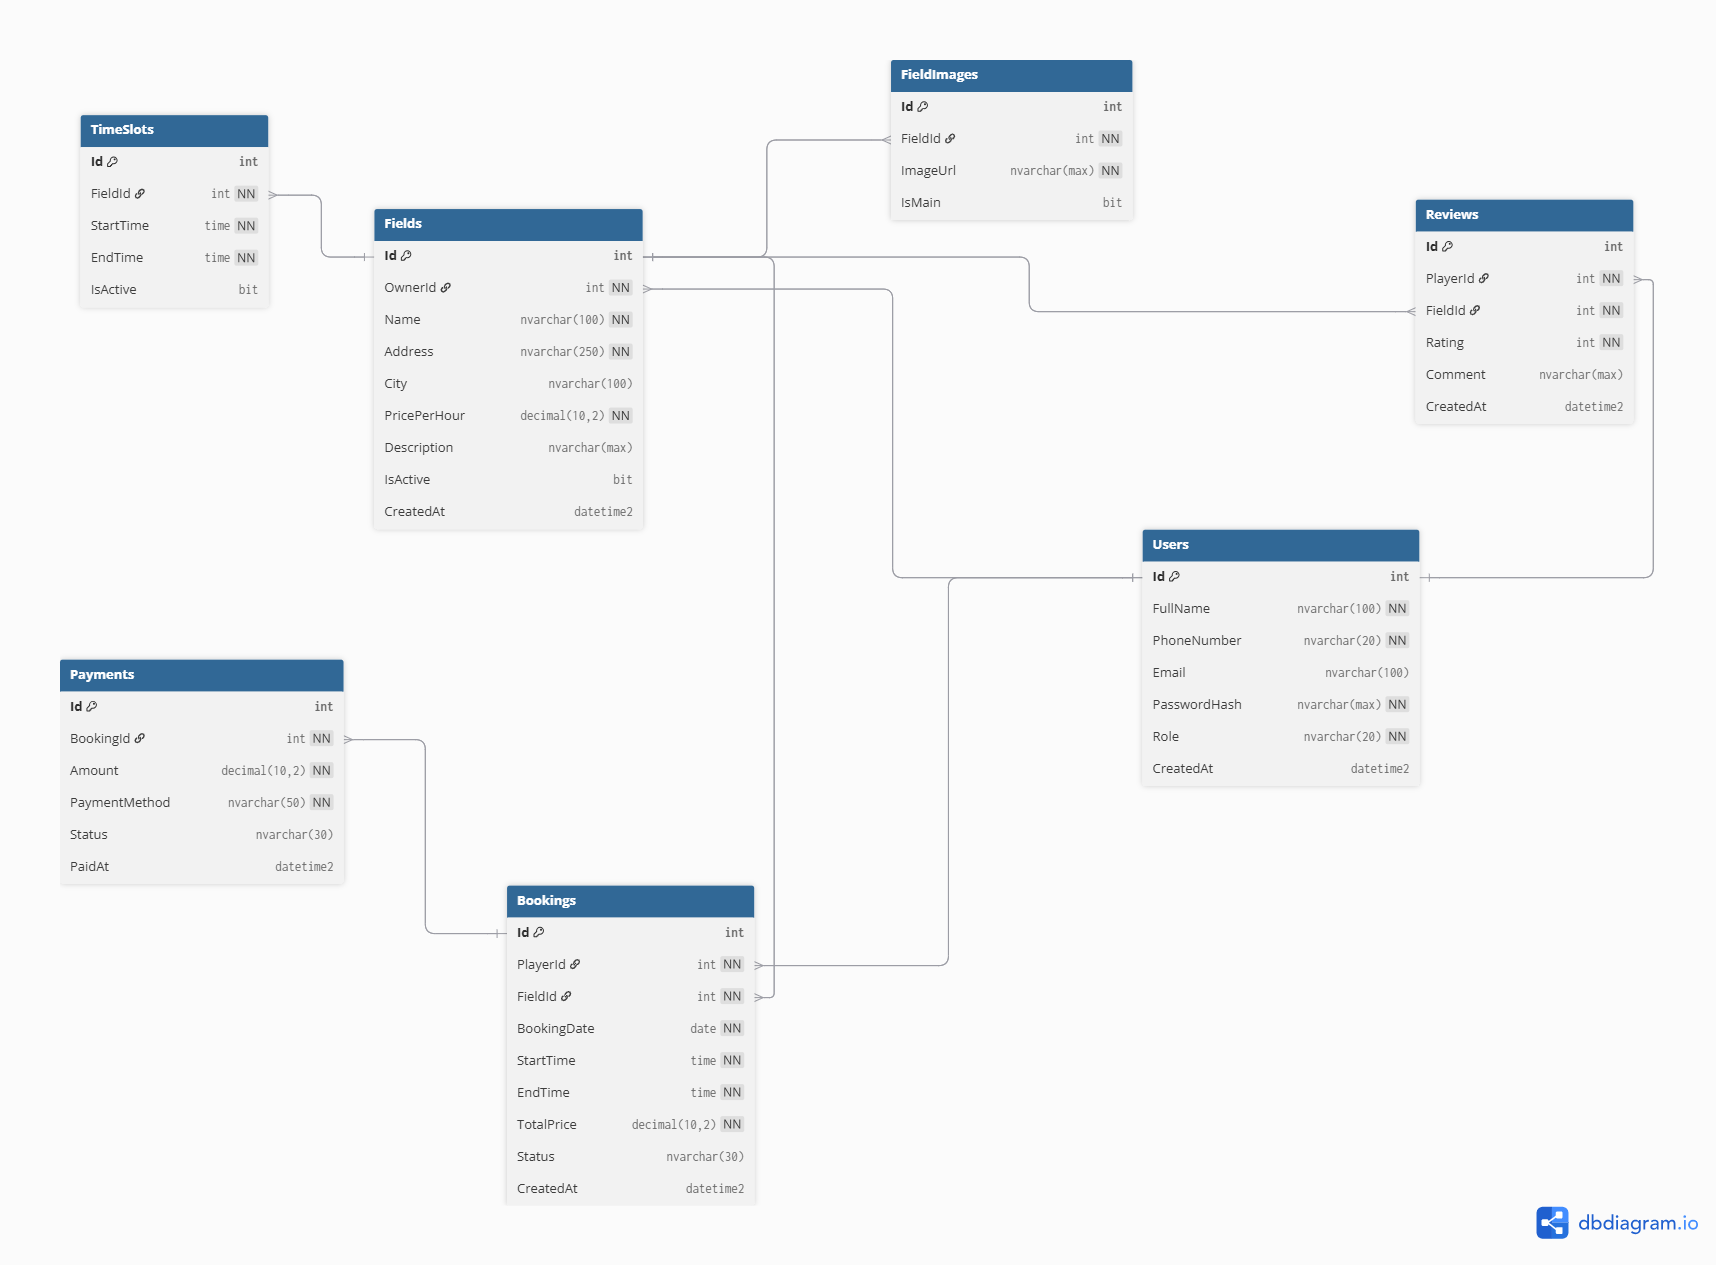
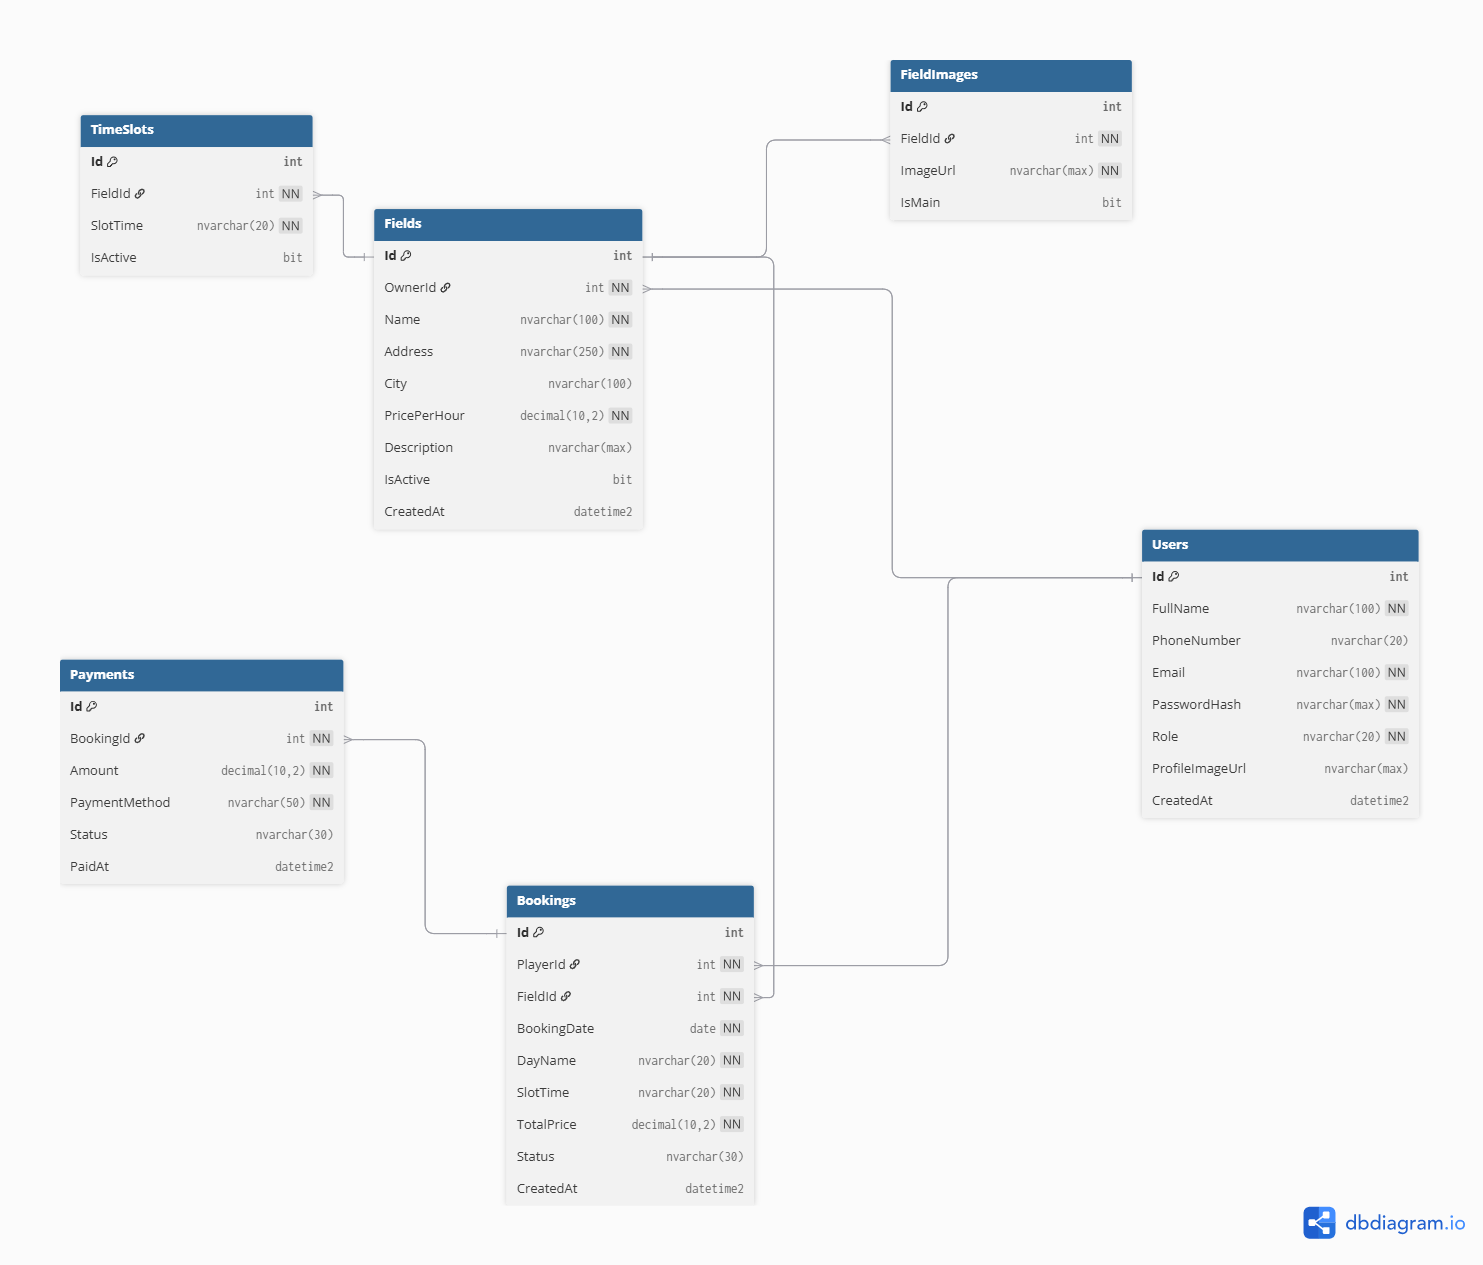
Update ERD

diff --git a/backend/KooraSpot/KooraSpot/DTOs/LoginRequest.cs b/backend/KooraSpot/KooraSpot/DTOs/LoginRequest.cs
@@ -1,0 +1,6 @@
+namespace KooraSpot.DTOs
+{
+    public class LoginRequest
+    {
+    }
+}